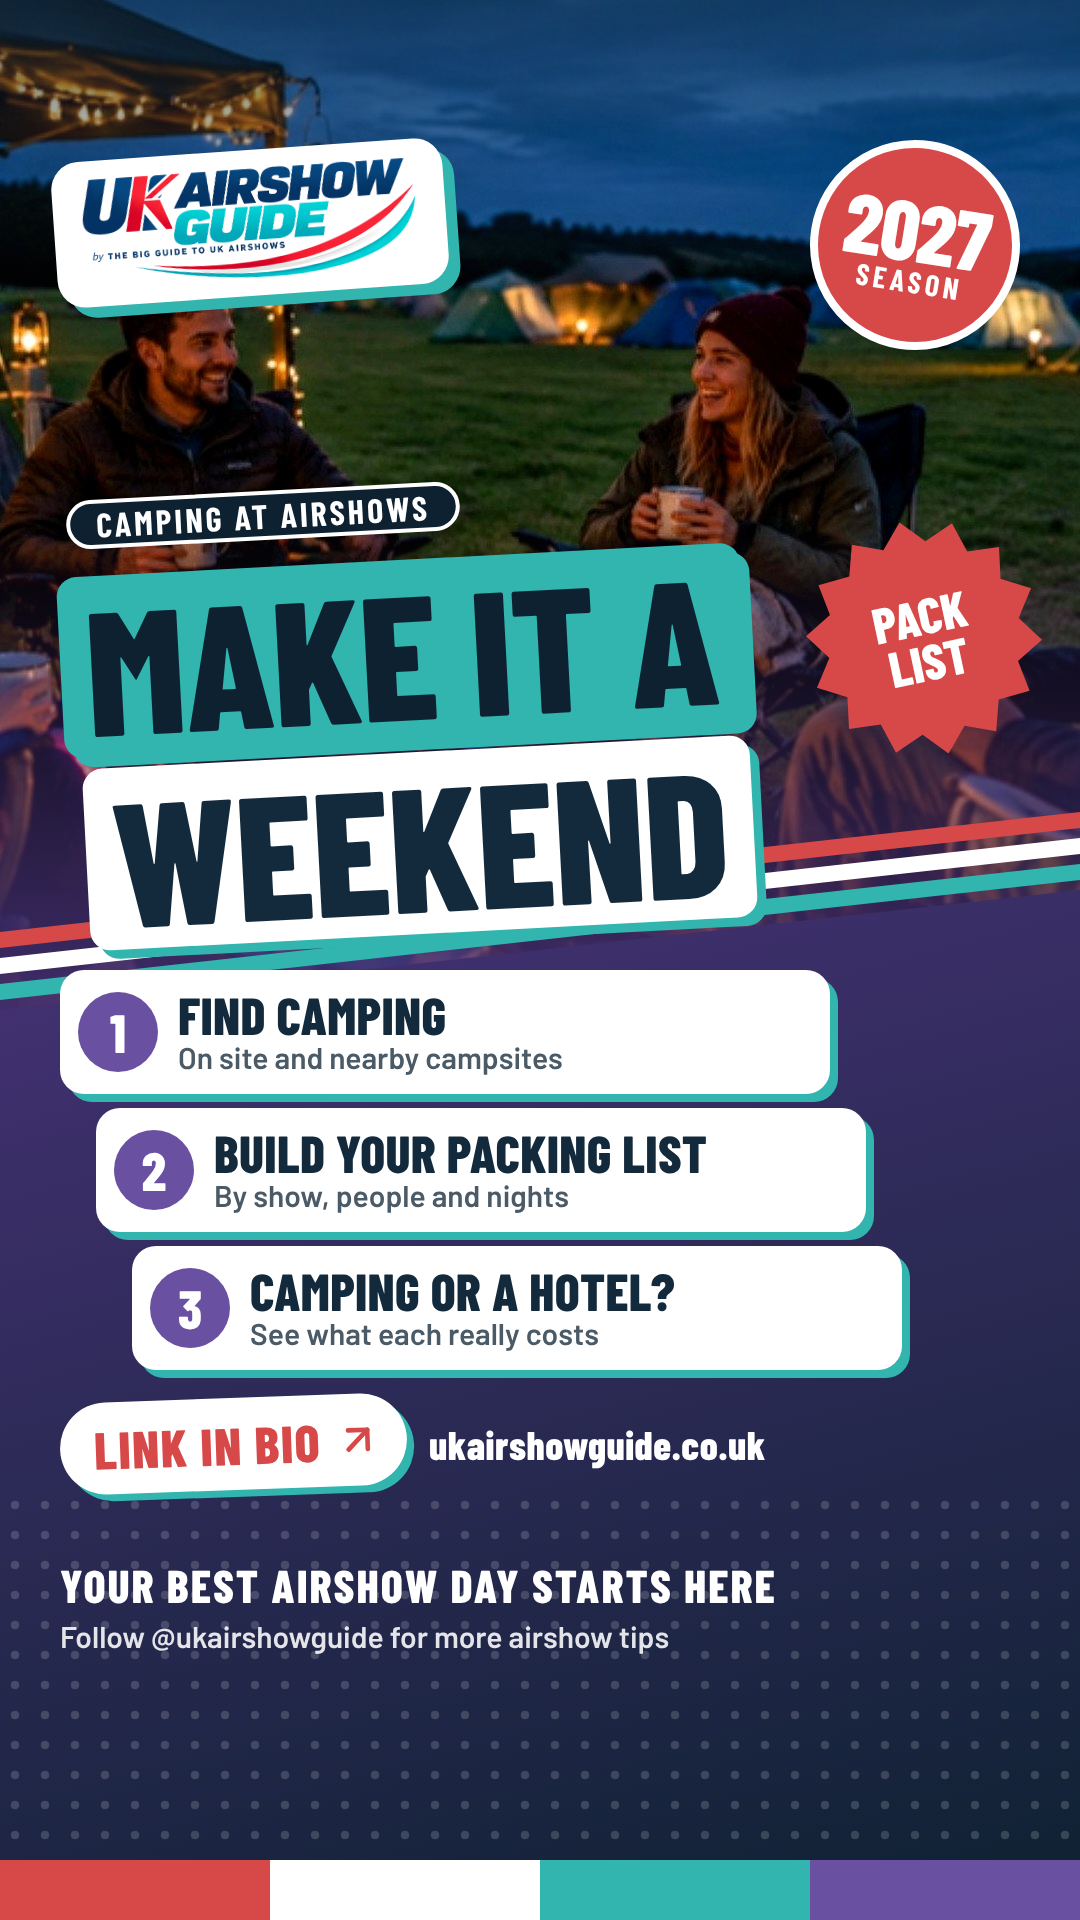
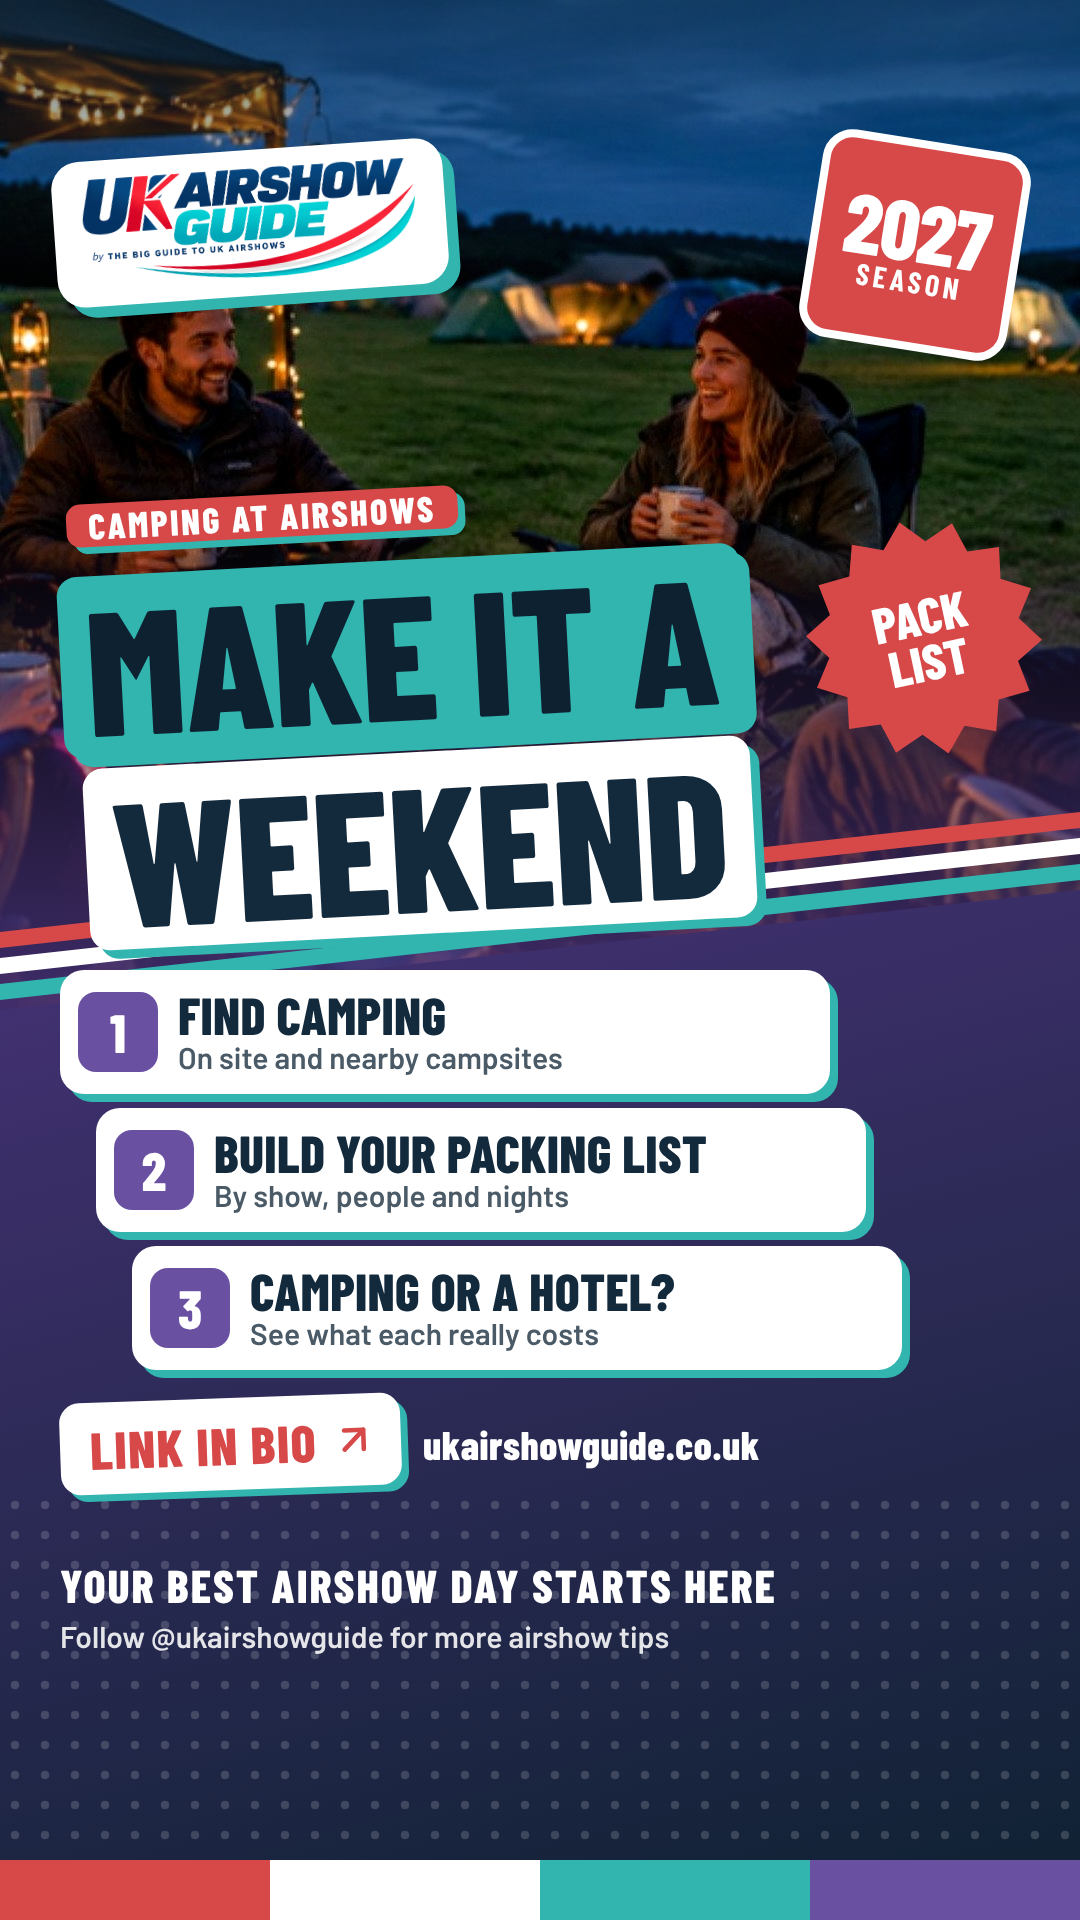
TikTok-style posts: add UK Airshow Guide post, drop fully rounded shapes
New post for the guide itself (Every UK airshow, one easy guide). The
tab above each headline, the Link in bio button, the 2027 badge and the
number badges are now gently rounded squares instead of pills and
circles, across the whole set of eight.

Claude-Session: https://claude.ai/code/session_01CAsoXHgnMU2LaVUUdRrAu8

diff --git a/posters/tiktok/tiktok-posts.html b/posters/tiktok/tiktok-posts.html
@@ -22,7 +22,7 @@ body{font-family:var(--body);padding:24px 0;display:flex;flex-direction:column;a
 .tr3{top:924px;background:var(--teal)}
 .logo{position:absolute;left:54px;top:150px;width:392px;height:146px;background:#fff;border-radius:28px;transform:rotate(-4deg);z-index:6;display:flex;align-items:center;justify-content:center}
 .logo img{width:336px;height:112px;display:block}
-.badge{position:absolute;left:810px;top:140px;width:210px;height:210px;border-radius:105px;border:8px solid #fff;transform:rotate(9deg);z-index:6;display:flex;flex-direction:column;align-items:center;justify-content:center}
+.badge{position:absolute;left:810px;top:140px;width:210px;height:210px;border-radius:30px;border:8px solid #fff;transform:rotate(9deg);z-index:6;display:flex;flex-direction:column;align-items:center;justify-content:center}
 .badge-a{font-family:var(--display);font-weight:800;font-size:84px;line-height:72px;letter-spacing:-1px;color:#fff}
 .badge-b{font-family:var(--display);font-weight:700;font-size:30px;line-height:32px;letter-spacing:4px;color:#fff}
 .burst{position:absolute;left:806px;top:520px;width:236px;height:236px;transform:rotate(-12deg);z-index:6}
@@ -30,8 +30,8 @@ body{font-family:var(--body);padding:24px 0;display:flex;flex-direction:column;a
 .burst-t{position:absolute;left:0;top:0;width:236px;height:236px;display:flex;flex-direction:column;align-items:center;justify-content:center}
 .burst-t p{font-family:var(--display);font-weight:800;font-size:50px;line-height:46px;letter-spacing:0;text-transform:uppercase;white-space:nowrap}
 .stack{position:absolute;left:60px;top:560px;width:850px;height:930px;z-index:5;display:flex;flex-direction:column;justify-content:flex-end;align-items:flex-start}
-.kick{background:var(--deep);border:4px solid #fff;border-radius:34px;height:68px;padding:0 26px;display:flex;align-items:center;transform:rotate(-3deg);margin:0 0 20px 6px}
-.kick p{font-family:var(--display);font-weight:700;font-size:34px;letter-spacing:3px;text-transform:uppercase;color:#fff;white-space:nowrap}
+.kick{border-radius:14px;height:66px;padding:0 22px;display:flex;align-items:center;transform:rotate(-3deg);margin:0 0 22px 6px}
+.kick p{font-family:var(--display);font-weight:800;font-size:36px;letter-spacing:2.5px;text-transform:uppercase;white-space:nowrap}
 .hl{border-radius:20px;padding:0 26px;transform:rotate(-3deg);display:flex;align-items:center;margin-bottom:10px}
 .hl p{font-family:var(--display);font-weight:800;text-transform:uppercase;letter-spacing:-1px;white-space:nowrap}
 .hl:nth-of-type(odd){margin-left:26px}
@@ -44,13 +44,13 @@ body{font-family:var(--body);padding:24px 0;display:flex;flex-direction:column;a
 .tip:nth-child(1){width:770px}
 .tip:nth-child(2){width:770px;margin-left:36px}
 .tip:nth-child(3){width:770px;margin-left:72px}
-.num{width:80px;height:80px;border-radius:40px;display:flex;align-items:center;justify-content:center;flex:none}
+.num{width:80px;height:80px;border-radius:18px;display:flex;align-items:center;justify-content:center;flex:none}
 .num p{font-family:var(--display);font-weight:800;font-size:54px;line-height:54px;color:#fff}
 .tip-c{flex:1;min-width:0}
 .tip-t{font-family:var(--display);font-weight:800;font-size:52px;line-height:50px;text-transform:uppercase;letter-spacing:.3px;color:var(--navy);white-space:nowrap}
 .tip-s{font-weight:600;font-size:30px;line-height:36px;color:#4A5A66;white-space:nowrap}
 .cta{margin-top:28px;display:flex;align-items:center;gap:22px}
-.pill{height:92px;border-radius:46px;padding:0 26px 0 34px;display:flex;align-items:center;gap:14px;transform:rotate(-2deg)}
+.pill{height:92px;border-radius:20px;padding:0 24px 0 30px;display:flex;align-items:center;gap:14px;transform:rotate(-2deg)}
 .pill p{font-family:var(--display);font-weight:800;font-size:52px;line-height:52px;letter-spacing:1.5px;text-transform:uppercase;white-space:nowrap}
 .pill .glyph{width:46px;height:46px}
 .c-white{background:#fff;color:var(--red)}
@@ -64,6 +64,31 @@ body{font-family:var(--body);padding:24px 0;display:flex;flex-direction:column;a
 .bar div{flex:1;height:60px}
 </style></head><body>
 
+<!-- guide -->
+<section class="slide" id="tk-guide" data-canvas-width="1080" data-canvas-height="1920" style="background:#463276">
+  <img class="ph" src="img/tk-guide.jpg" width="1080" height="1010" alt="Red Arrows drawing loops of red, white and blue smoke">
+  <div class="tint" style="background:linear-gradient(180deg,rgba(14,33,49,.62) 0%,rgba(14,33,49,0) 30%,rgba(215,73,73,0) 52%,rgba(215,73,73,.9) 100%)"></div>
+  <div class="panel" style="background:linear-gradient(165deg,#D74949 0%,#463276 100%)"></div>
+  <div class="dots"></div>
+  <div class="trail tr1"></div><div class="trail tr2"></div><div class="trail tr3"></div>
+  <div class="logo" style="box-shadow:11px 11px 0 #32B4AF"><img src="img/logo.png" width="336" height="112" alt="UK Airshow Guide"></div>
+  <div class="badge" style="background:#32B4AF"><p class="badge-a">2027</p><p class="badge-b">SEASON</p></div>
+  <div class="burst"><svg viewBox="0 0 200 200" aria-hidden="true"><polygon points="100.0,0.0 118.2,20.1 143.4,9.9 151.1,35.9 178.2,37.7 173.9,64.4 197.5,77.7 182.0,100.0 197.5,122.3 173.9,135.6 178.2,162.3 151.1,164.1 143.4,190.1 118.2,179.9 100.0,200.0 81.8,179.9 56.6,190.1 48.9,164.1 21.8,162.3 26.1,135.6 2.5,122.3 18.0,100.0 2.5,77.7 26.1,64.4 21.8,37.7 48.9,35.9 56.6,9.9 81.8,20.1" fill="#fff"/></svg><div class="burst-t" style="color:#D74949"><p>FREE</p><p>TO USE</p></div></div>
+  <div class="stack">
+    <div class="kick" style="background:#32B4AF;color:#0E2131;box-shadow:7px 7px 0 #0E2131"><p>The Big Guide to UK Airshows</p></div>
+    <div class="hl b-white" style="height:114px;box-shadow:9px 9px 0 #0E2131"><p style="font-size:106px;line-height:114px">Every UK airshow</p></div>
+    <div class="hl b-navy" style="height:114px;box-shadow:9px 9px 0 #0E2131"><p style="font-size:106px;line-height:114px">one easy guide</p></div>
+    <div class="tips">
+      <div class="tip" style="box-shadow:8px 8px 0 #0E2131"><div class="num" style="background:#13293C"><p>1</p></div><div class="tip-c"><p class="tip-t">Find your show</p><p class="tip-s">13 featured show guides</p></div></div>
+      <div class="tip" style="box-shadow:8px 8px 0 #0E2131"><div class="num" style="background:#13293C"><p>2</p></div><div class="tip-c"><p class="tip-t">Plan your day</p><p class="tip-s">Getting there, what to pack, where to watch</p></div></div>
+      <div class="tip" style="box-shadow:8px 8px 0 #0E2131"><div class="num" style="background:#13293C"><p>3</p></div><div class="tip-c"><p class="tip-t">Free to use</p><p class="tip-s">On any phone, tablet or computer</p></div></div>
+    </div>
+    <div class="cta"><div class="pill c-navy" style="box-shadow:7px 7px 0 #32B4AF"><p>Link in bio</p><svg class="glyph" viewBox="0 0 24 24" fill="none" stroke="currentColor" stroke-width="2.4" stroke-linecap="round" stroke-linejoin="round" aria-hidden="true"><path d="M7 7h10v10" /><path d="M7 17 17 7" /></svg></div><p class="site">ukairshowguide.co.uk</p></div>
+  </div>
+  <div class="low"><p class="low-a">Your best airshow day starts here</p><p class="low-b">Follow @ukairshowguide for more airshow tips</p></div>
+  <div class="bar"><div style="background:#D74949"></div><div style="background:#fff"></div><div style="background:#32B4AF"></div><div style="background:#6950A1"></div></div>
+</section>
+
 <!-- main -->
 <section class="slide" id="tk-main" data-canvas-width="1080" data-canvas-height="1920" style="background:#0E2131">
   <img class="ph" src="img/tk-main.jpg" width="1080" height="1010" alt="Red Arrows in formation with white smoke">
@@ -75,7 +100,7 @@ body{font-family:var(--body);padding:24px 0;display:flex;flex-direction:column;a
   <div class="badge" style="background:#D74949"><p class="badge-a">2027</p><p class="badge-b">SEASON</p></div>
   <div class="burst"><svg viewBox="0 0 200 200" aria-hidden="true"><polygon points="100.0,0.0 118.2,20.1 143.4,9.9 151.1,35.9 178.2,37.7 173.9,64.4 197.5,77.7 182.0,100.0 197.5,122.3 173.9,135.6 178.2,162.3 151.1,164.1 143.4,190.1 118.2,179.9 100.0,200.0 81.8,179.9 56.6,190.1 48.9,164.1 21.8,162.3 26.1,135.6 2.5,122.3 18.0,100.0 2.5,77.7 26.1,64.4 21.8,37.7 48.9,35.9 56.6,9.9 81.8,20.1" fill="#32B4AF"/></svg><div class="burst-t" style="color:#0E2131"><p>FREE</p><p>GUIDE</p></div></div>
   <div class="stack">
-    <div class="kick"><p>The 2027 airshow season</p></div>
+    <div class="kick" style="background:#D74949;color:#fff;box-shadow:7px 7px 0 #32B4AF"><p>The 2027 airshow season</p></div>
     <div class="hl b-white" style="height:135px;box-shadow:9px 9px 0 #32B4AF"><p style="font-size:128px;line-height:135px">Your best</p></div>
     <div class="hl b-red" style="height:135px;box-shadow:9px 9px 0 #32B4AF"><p style="font-size:128px;line-height:135px">airshow day</p></div>
     <div class="hl b-teal" style="height:135px;box-shadow:9px 9px 0 #32B4AF"><p style="font-size:128px;line-height:135px">starts here</p></div>
@@ -101,7 +126,7 @@ body{font-family:var(--body);padding:24px 0;display:flex;flex-direction:column;a
   <div class="badge" style="background:#13293C"><p class="badge-a">2027</p><p class="badge-b">SEASON</p></div>
   <div class="burst"><svg viewBox="0 0 200 200" aria-hidden="true"><polygon points="100.0,0.0 118.2,20.1 143.4,9.9 151.1,35.9 178.2,37.7 173.9,64.4 197.5,77.7 182.0,100.0 197.5,122.3 173.9,135.6 178.2,162.3 151.1,164.1 143.4,190.1 118.2,179.9 100.0,200.0 81.8,179.9 56.6,190.1 48.9,164.1 21.8,162.3 26.1,135.6 2.5,122.3 18.0,100.0 2.5,77.7 26.1,64.4 21.8,37.7 48.9,35.9 56.6,9.9 81.8,20.1" fill="#fff"/></svg><div class="burst-t" style="color:#D74949"><p>6 FREE</p><p>SHOWS</p></div></div>
   <div class="stack">
-    <div class="kick"><p>May to October</p></div>
+    <div class="kick" style="background:#13293C;color:#fff;box-shadow:7px 7px 0 #0E2131"><p>May to October</p></div>
     <div class="hl b-white" style="height:182px;box-shadow:9px 9px 0 #0E2131"><p style="font-size:176px;line-height:182px">Find your</p></div>
     <div class="hl b-navy" style="height:182px;box-shadow:9px 9px 0 #0E2131"><p style="font-size:176px;line-height:182px">show</p></div>
     <div class="tips">
@@ -126,7 +151,7 @@ body{font-family:var(--body);padding:24px 0;display:flex;flex-direction:column;a
   <div class="badge" style="background:#D74949"><p class="badge-a">2027</p><p class="badge-b">SEASON</p></div>
   <div class="burst"><svg viewBox="0 0 200 200" aria-hidden="true"><polygon points="100.0,0.0 118.2,20.1 143.4,9.9 151.1,35.9 178.2,37.7 173.9,64.4 197.5,77.7 182.0,100.0 197.5,122.3 173.9,135.6 178.2,162.3 151.1,164.1 143.4,190.1 118.2,179.9 100.0,200.0 81.8,179.9 56.6,190.1 48.9,164.1 21.8,162.3 26.1,135.6 2.5,122.3 18.0,100.0 2.5,77.7 26.1,64.4 21.8,37.7 48.9,35.9 56.6,9.9 81.8,20.1" fill="#fff"/></svg><div class="burst-t" style="color:#13293C"><p>54 BUS</p><p>ROUTES</p></div></div>
   <div class="stack">
-    <div class="kick"><p>Train, bus or coach</p></div>
+    <div class="kick" style="background:#D74949;color:#fff;box-shadow:7px 7px 0 #0E2131"><p>Train, bus or coach</p></div>
     <div class="hl b-navy" style="height:142px;box-shadow:9px 9px 0 #0E2131"><p style="font-size:135px;line-height:142px">Leave the car</p></div>
     <div class="hl b-white" style="height:142px;box-shadow:9px 9px 0 #0E2131"><p style="font-size:135px;line-height:142px">at home</p></div>
     <div class="tips">
@@ -151,7 +176,7 @@ body{font-family:var(--body);padding:24px 0;display:flex;flex-direction:column;a
   <div class="badge" style="background:#32B4AF"><p class="badge-a">2027</p><p class="badge-b">SEASON</p></div>
   <div class="burst"><svg viewBox="0 0 200 200" aria-hidden="true"><polygon points="100.0,0.0 118.2,20.1 143.4,9.9 151.1,35.9 178.2,37.7 173.9,64.4 197.5,77.7 182.0,100.0 197.5,122.3 173.9,135.6 178.2,162.3 151.1,164.1 143.4,190.1 118.2,179.9 100.0,200.0 81.8,179.9 56.6,190.1 48.9,164.1 21.8,162.3 26.1,135.6 2.5,122.3 18.0,100.0 2.5,77.7 26.1,64.4 21.8,37.7 48.9,35.9 56.6,9.9 81.8,20.1" fill="#D74949"/></svg><div class="burst-t" style="color:#fff"><p>4 SHORT</p><p>GUIDES</p></div></div>
   <div class="stack">
-    <div class="kick"><p>Never been before?</p></div>
+    <div class="kick" style="background:#32B4AF;color:#0E2131;box-shadow:7px 7px 0 #0E2131"><p>Never been before?</p></div>
     <div class="hl b-white" style="height:130px;box-shadow:9px 9px 0 #0E2131"><p style="font-size:122px;line-height:130px">First airshow?</p></div>
     <div class="hl b-teal" style="height:130px;box-shadow:9px 9px 0 #0E2131"><p style="font-size:122px;line-height:130px">Start here</p></div>
     <div class="tips">
@@ -176,7 +201,7 @@ body{font-family:var(--body);padding:24px 0;display:flex;flex-direction:column;a
   <div class="badge" style="background:#32B4AF"><p class="badge-a">2027</p><p class="badge-b">SEASON</p></div>
   <div class="burst"><svg viewBox="0 0 200 200" aria-hidden="true"><polygon points="100.0,0.0 118.2,20.1 143.4,9.9 151.1,35.9 178.2,37.7 173.9,64.4 197.5,77.7 182.0,100.0 197.5,122.3 173.9,135.6 178.2,162.3 151.1,164.1 143.4,190.1 118.2,179.9 100.0,200.0 81.8,179.9 56.6,190.1 48.9,164.1 21.8,162.3 26.1,135.6 2.5,122.3 18.0,100.0 2.5,77.7 26.1,64.4 21.8,37.7 48.9,35.9 56.6,9.9 81.8,20.1" fill="#fff"/></svg><div class="burst-t" style="color:#D74949"><p>PLAIN</p><p>ENGLISH</p></div></div>
   <div class="stack">
-    <div class="kick"><p>Airshow Photography Hub</p></div>
+    <div class="kick" style="background:#32B4AF;color:#0E2131;box-shadow:7px 7px 0 #D74949"><p>Airshow Photography Hub</p></div>
     <div class="hl b-red" style="height:182px;box-shadow:9px 9px 0 #D74949"><p style="font-size:176px;line-height:182px">Get the</p></div>
     <div class="hl b-white" style="height:182px;box-shadow:9px 9px 0 #D74949"><p style="font-size:176px;line-height:182px">shot</p></div>
     <div class="tips">
@@ -201,7 +226,7 @@ body{font-family:var(--body);padding:24px 0;display:flex;flex-direction:column;a
   <div class="badge" style="background:#D74949"><p class="badge-a">2027</p><p class="badge-b">SEASON</p></div>
   <div class="burst"><svg viewBox="0 0 200 200" aria-hidden="true"><polygon points="100.0,0.0 118.2,20.1 143.4,9.9 151.1,35.9 178.2,37.7 173.9,64.4 197.5,77.7 182.0,100.0 197.5,122.3 173.9,135.6 178.2,162.3 151.1,164.1 143.4,190.1 118.2,179.9 100.0,200.0 81.8,179.9 56.6,190.1 48.9,164.1 21.8,162.3 26.1,135.6 2.5,122.3 18.0,100.0 2.5,77.7 26.1,64.4 21.8,37.7 48.9,35.9 56.6,9.9 81.8,20.1" fill="#D74949"/></svg><div class="burst-t" style="color:#fff"><p>PACK</p><p>LIST</p></div></div>
   <div class="stack">
-    <div class="kick"><p>Camping at airshows</p></div>
+    <div class="kick" style="background:#D74949;color:#fff;box-shadow:7px 7px 0 #32B4AF"><p>Camping at airshows</p></div>
     <div class="hl b-teal" style="height:182px;box-shadow:9px 9px 0 #32B4AF"><p style="font-size:176px;line-height:182px">Make it a</p></div>
     <div class="hl b-white" style="height:182px;box-shadow:9px 9px 0 #32B4AF"><p style="font-size:176px;line-height:182px">weekend</p></div>
     <div class="tips">
@@ -226,7 +251,7 @@ body{font-family:var(--body);padding:24px 0;display:flex;flex-direction:column;a
   <div class="badge" style="background:#6950A1"><p class="badge-a">2027</p><p class="badge-b">SEASON</p></div>
   <div class="burst"><svg viewBox="0 0 200 200" aria-hidden="true"><polygon points="100.0,0.0 118.2,20.1 143.4,9.9 151.1,35.9 178.2,37.7 173.9,64.4 197.5,77.7 182.0,100.0 197.5,122.3 173.9,135.6 178.2,162.3 151.1,164.1 143.4,190.1 118.2,179.9 100.0,200.0 81.8,179.9 56.6,190.1 48.9,164.1 21.8,162.3 26.1,135.6 2.5,122.3 18.0,100.0 2.5,77.7 26.1,64.4 21.8,37.7 48.9,35.9 56.6,9.9 81.8,20.1" fill="#fff"/></svg><div class="burst-t" style="color:#6950A1"><p>FREE</p><p>TO JOIN</p></div></div>
   <div class="stack">
-    <div class="kick"><p>My Airshow Hub</p></div>
+    <div class="kick" style="background:#6950A1;color:#fff;box-shadow:7px 7px 0 #D74949"><p>My Airshow Hub</p></div>
     <div class="hl b-white" style="height:145px;box-shadow:9px 9px 0 #D74949"><p style="font-size:138px;line-height:145px">Plan it all in</p></div>
     <div class="hl b-red" style="height:145px;box-shadow:9px 9px 0 #D74949"><p style="font-size:138px;line-height:145px">one place</p></div>
     <div class="tips">
